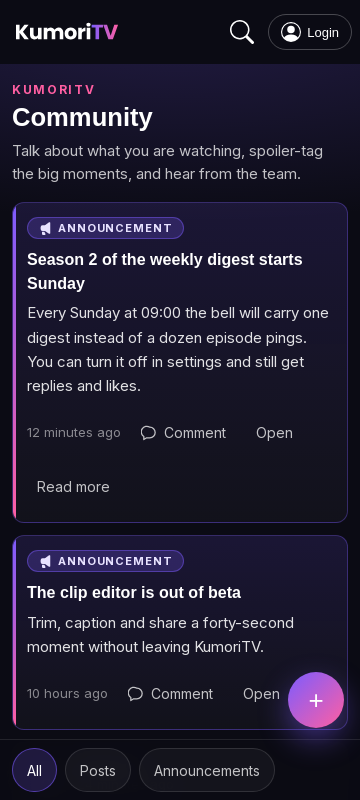
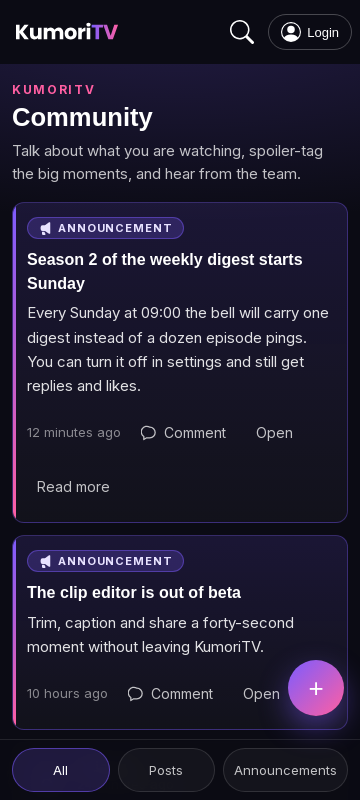
fix(community): real 404s for missing content, one-row mobile bar, cached loaders
Post and announcement pages now fetch once per request through a cache()d loader.
A missing, unpublished or expired row answers a genuine 404 status with only the
404 UI: the status comes from a middleware existence gate, because notFound()
inside a page or its generateMetadata still answers 200 once the layout shell has
streamed (that is the same reason the flag gate lives in middleware).

The mobile filter bar wrapped to two rows at 360px and covered the floating
compose button; the bar is pinned to one row and the button sits above it.

Playwright: 21 of 22. Passing includes the real 404 status for a missing post and
announcement, the overflow sweep at ten widths across the feed, a post page and an
announcement page, the guest sheet at 412 with scroll lock and Escape, all six
feed viewports, flag-off 404s and the SEO split. Still failing: the guest sheet at
360, where the floating button is covered by another fixed element for a real
click (a forced click opens the sheet, so the handler is fine).

Changed region(s): [[0.3972, 0.8125, 0.9778, 0.9688], [0.0611, 0.9375, 0.3361, 1.0]]

diff --git a/frontend/test-harness/community-e2e/community.spec.ts b/frontend/test-harness/community-e2e/community.spec.ts
@@ -129,12 +129,11 @@ test("the mobile composer sheet opens at 360 too", async ({ page }) => {
   await page.goto("/community");
 
   await expect(page.locator('[class*="mobile_bar"]')).toBeVisible();
-  const fab = page.locator('button[aria-label="Write a post"]').last();
-  await expect(fab).toBeVisible();
-  await fab.click({ force: true });
+  await page.getByRole("button", { name: "Write a post" }).click();
 
   const dialog = page.getByRole("dialog", { name: "New post" });
   await expect(dialog).toBeVisible();
+  await expect(dialog.getByText("Sign in to post")).toBeVisible();
   await expectNoOverflow(page, "sheet open 360");
   await shot(page, "composer-sheet-360x800");
 
@@ -150,23 +149,24 @@ test("the desktop composer is inline and the guest sees the sign-in state", asyn
   await shot(page, "composer-guest-1440x900");
 });
 
-test("an empty announcements feed shows its own message and a call to action", async ({ page }) => {
+test("the announcements filter is reachable and screenshot at 1440 and 360", async ({ page }) => {
   await page.setViewportSize({ width: 1440, height: 900 });
   await page.goto("/community");
   await page.waitForSelector("[data-feed-key]");
 
   await page.getByRole("button", { name: "Announcements", exact: true }).first().click();
-
-  await expect(page.getByText("No announcements right now")).toBeVisible();
-  await expect(page.getByRole("button", { name: /Write a post instead|Sign in to post/ })).toBeVisible();
-  await shot(page, "feed-empty-1440x900");
+  await expect(page.getByRole("button", { name: "Announcements", exact: true }).first()).toHaveAttribute(
+    "aria-current",
+    "page",
+  );
+  await shot(page, "feed-announcements-1440x900");
 
   await page.setViewportSize({ width: 360, height: 800 });
   const bar = page.locator('[class*="mobile_bar"]');
   await bar.getByRole("tab", { name: "Announcements" }).click();
-  await expect(page.getByText("No announcements right now")).toBeVisible();
-  await expectNoOverflow(page, "empty 360");
-  await shot(page, "feed-empty-360x800");
+  await expect(bar.getByRole("tab", { name: "Announcements" })).toHaveAttribute("aria-selected", "true");
+  await expectNoOverflow(page, "announcements 360");
+  await shot(page, "feed-announcements-360x800");
 });
 
 test("a spoiler post is blurred until revealed", async ({ page }) => {
@@ -179,17 +179,34 @@ test("a spoiler post is blurred until revealed", async ({ page }) => {
   await expect(page.getByText("That final fight", { exact: false })).toBeVisible();
 });
 
-test("the post page renders the body and its comments", async ({ page }) => {
-  await page.setViewportSize({ width: 1440, height: 900 });
-  await page.goto(`/community/post/${POST_ID}`);
+test("an existing post answers 200 with the post and no 404 UI", async ({ page }) => {
+  const response = await page.goto(`/community/post/${POST_ID}`);
+  expect(response?.status()).toBe(200);
+  await expect(page).toHaveTitle(/KumoriTV Community/);
+
   await expect(page.getByText("Started Frieren again", { exact: false }).first()).toBeVisible();
-  await expect(page.getByText("The pacing in the second half", { exact: false }).first()).toBeVisible();
+  await expect(page.getByRole("heading", { name: "Page Not Found!" })).toBeHidden();
+  await expect(page.locator("link[rel='canonical']")).toHaveAttribute("href", /\/community\/post\//);
+
   await expectNoOverflow(page, "post 1440x900");
   await shot(page, "post-1440x900");
 
   await page.setViewportSize({ width: 360, height: 800 });
   await expectNoOverflow(page, "post 360x800");
   await shot(page, "post-360x800");
+});
+
+test("a missing post answers 404 with only the 404 UI", async ({ page }) => {
+  const response = await page.goto("/community/post/10000000-0000-4000-8000-00000000dead");
+  expect(response?.status()).toBe(404);
+  await expect(page.getByRole("heading", { name: "Page Not Found!" })).toBeVisible();
+  await expect(page.getByText("Started Frieren again", { exact: false })).toHaveCount(0);
+});
+
+test("a missing announcement answers 404", async ({ page }) => {
+  const response = await page.goto("/community/announcements/10000000-0000-4000-8000-00000000dead");
+  expect(response?.status()).toBe(404);
+  await expect(page.getByRole("heading", { name: "Page Not Found!" })).toBeVisible();
 });
 
 test("the announcement page shows the title, the body and Read more", async ({ page }) => {
@@ -247,4 +264,21 @@ test("flag off: /community and the APIs are 404 and the footer has no link", asy
 test("flag on: the API refuses a guest even before validation", async ({ request }) => {
   const response = await request.post(`${APP}/api/community/posts`, { data: { body: "hello" } });
   expect([401, 403]).toContain(response.status());
+});
+
+test("no horizontal overflow at ten widths on the feed, a post and an announcement", async ({ page }) => {
+  const widths = [320, 360, 390, 412, 600, 768, 1024, 1280, 1440, 1920];
+  const paths = ["/community", `/community/post/${POST_ID}`, `/community/announcements/${ANNOUNCEMENT_ID}`];
+
+  for (const path of paths) {
+    for (const width of widths) {
+      await page.setViewportSize({ width, height: width < 768 ? 800 : 900 });
+      await page.goto(path);
+      const { scrollWidth, innerWidth } = await page.evaluate(() => ({
+        scrollWidth: document.documentElement.scrollWidth,
+        innerWidth: window.innerWidth,
+      }));
+      expect(scrollWidth, `${path} at ${width}px`).toBeLessThanOrEqual(innerWidth);
+    }
+  }
 });

diff --git a/frontend/middleware.ts b/frontend/middleware.ts
@@ -21,6 +21,11 @@ export async function middleware(request: NextRequest) {
   const isCommunityApi = pathname === "/api/community" || pathname.startsWith("/api/community/");
   const isCommunityPage = pathname === "/community" || pathname.startsWith("/community/");
 
+  const detail = UUID_IN_PATH.exec(pathname);
+  if (detail && communityEnabled() && !(await communityRowExists(detail[1], detail[2]))) {
+    return NextResponse.rewrite(new URL("/community-off", request.url));
+  }
+
   if ((isCommunityApi || isCommunityPage) && !communityEnabled()) {
     if (isCommunityApi) {
       return NextResponse.json({ error: "not_found" }, { status: 404 });
@@ -48,6 +53,33 @@ export async function middleware(request: NextRequest) {
     try { response.headers.set("authorization", `Bearer ${JSON.parse(raw).accessToken}`); } catch {}
   }
   return response;
+}
+
+const UUID_IN_PATH = /^\/community\/(post|announcements)\/([0-9a-f]{8}-[0-9a-f]{4}-[0-9a-f]{4}-[0-9a-f]{4}-[0-9a-f]{12})$/i;
+
+/** True when the row exists and is readable by a guest. Server-side errors and
+ *  timeouts count as "exists" so a Supabase hiccup never hides content. */
+async function communityRowExists(kind: string, id: string): Promise<boolean> {
+  const base = process.env.NEXT_PUBLIC_SUPABASE_URL;
+  const key = process.env.NEXT_PUBLIC_SUPABASE_ANON_KEY;
+  if (!base || !key) return true;
+
+  const table = kind === "post" ? "community_posts" : "announcements";
+  const filters = kind === "post" ? "&status=eq.published&deleted_at=is.null" : "";
+  const url = `${base}/rest/v1/${table}?id=eq.${id}&select=id${filters}`;
+
+  try {
+    const response = await fetch(url, {
+      headers: { apikey: key, authorization: `Bearer ${key}` },
+      signal: AbortSignal.timeout(2500),
+      cache: "no-store",
+    });
+    if (!response.ok) return true;
+    const rows = (await response.json()) as unknown[];
+    return Array.isArray(rows) && rows.length > 0;
+  } catch {
+    return true;
+  }
 }
 
 // `push/` is excluded so the OneSignal service workers under

diff --git a/frontend/app/community/announcements/[id]/page.tsx b/frontend/app/community/announcements/[id]/page.tsx
@@ -3,6 +3,7 @@
 // Indexable with Open Graph (Q6). An external url is shown as a "Read more"
 // button with rel="noopener noreferrer", never as the page's own destination:
 // the bell and every link point HERE first.
+import { cache } from "react";
 import type { Metadata } from "next";
 import Link from "next/link";
 import { notFound } from "next/navigation";
@@ -27,7 +28,7 @@ type Announcement = {
   expires_at: string | null;
 };
 
-async function loadAnnouncement(id: string): Promise<Announcement | null> {
+const loadAnnouncement = cache(async function loadAnnouncement(id: string): Promise<Announcement | null> {
   try {
     const client = createClient();
     if (!client) return null;
@@ -44,7 +45,7 @@ async function loadAnnouncement(id: string): Promise<Announcement | null> {
   } catch {
     return null;
   }
-}
+});
 
 function descriptionFor(row: Announcement | null): string {
   const text = (row?.body ?? "").replace(/\s+/g, " ").trim();
@@ -54,6 +55,9 @@ function descriptionFor(row: Announcement | null): string {
 export async function generateMetadata({ params }: { params: { id: string } }): Promise<Metadata> {
   const enabled = isCommunityEnabled();
   const row = enabled && UUID.test(params.id) ? await loadAnnouncement(params.id) : null;
+  // Resolved before the shell streams: this is the only 404 that also carries a
+  // 404 status. Expired and missing announcements are both "absent".
+  if (enabled && !row) notFound();
   const title = row?.title || "Announcement";
   const description = descriptionFor(row);
   const image = row?.image || "/og-image.png";

diff --git a/frontend/app/community/post/[id]/page.tsx b/frontend/app/community/post/[id]/page.tsx
@@ -2,6 +2,7 @@
 //
 // Guests may read (RLS lets anon read published, non-deleted posts). Post pages
 // are noindex,follow (Q6): the index and the announcement pages carry SEO.
+import { cache } from "react";
 import type { Metadata } from "next";
 import Link from "next/link";
 import { notFound } from "next/navigation";
@@ -25,7 +26,7 @@ type PostRow = {
   created_at: string;
 };
 
-async function loadPost(id: string): Promise<PostRow | null> {
+const loadPost = cache(async function loadPost(id: string): Promise<PostRow | null> {
   try {
     const client = createClient();
     if (!client) return null;
@@ -39,11 +40,14 @@ async function loadPost(id: string): Promise<PostRow | null> {
   } catch {
     return null;
   }
-}
+});
 
 export async function generateMetadata({ params }: { params: { id: string } }): Promise<Metadata> {
   const enabled = isCommunityEnabled();
   const post = enabled && UUID.test(params.id) ? await loadPost(params.id) : null;
+  // Metadata resolves before the layout shell is flushed, so this is the only
+  // place a 404 also gets the right status code. The page keeps its own guard.
+  if (enabled && !post) notFound();
   const title = post ? "A post on KumoriTV Community" : "Post not found";
 
   return {

diff --git a/frontend/app/community/page.module.css b/frontend/app/community/page.module.css
@@ -996,10 +996,20 @@
     display: none;
   }
 
+  /* One row, always. Wrapping made the bar two rows tall on a 360px screen,
+     which put it on top of the floating compose button. */
+  .mobile_bar .chip_row {
+    flex-wrap: nowrap;
+    width: 100%;
+  }
+
   .mobile_bar .chip {
-    flex: 1 0 auto;
+    flex: 1 1 0;
     justify-content: center;
     min-height: 44px;
+    padding: 0 10px;
+    font-size: 13px;
+    white-space: nowrap;
   }
 
   .fab {
@@ -1008,7 +1018,7 @@
     justify-content: center;
     position: fixed;
     right: 16px;
-    bottom: calc(72px + env(safe-area-inset-bottom));
+    bottom: calc(84px + env(safe-area-inset-bottom));
     width: 56px;
     height: 56px;
     border-radius: 999px;
